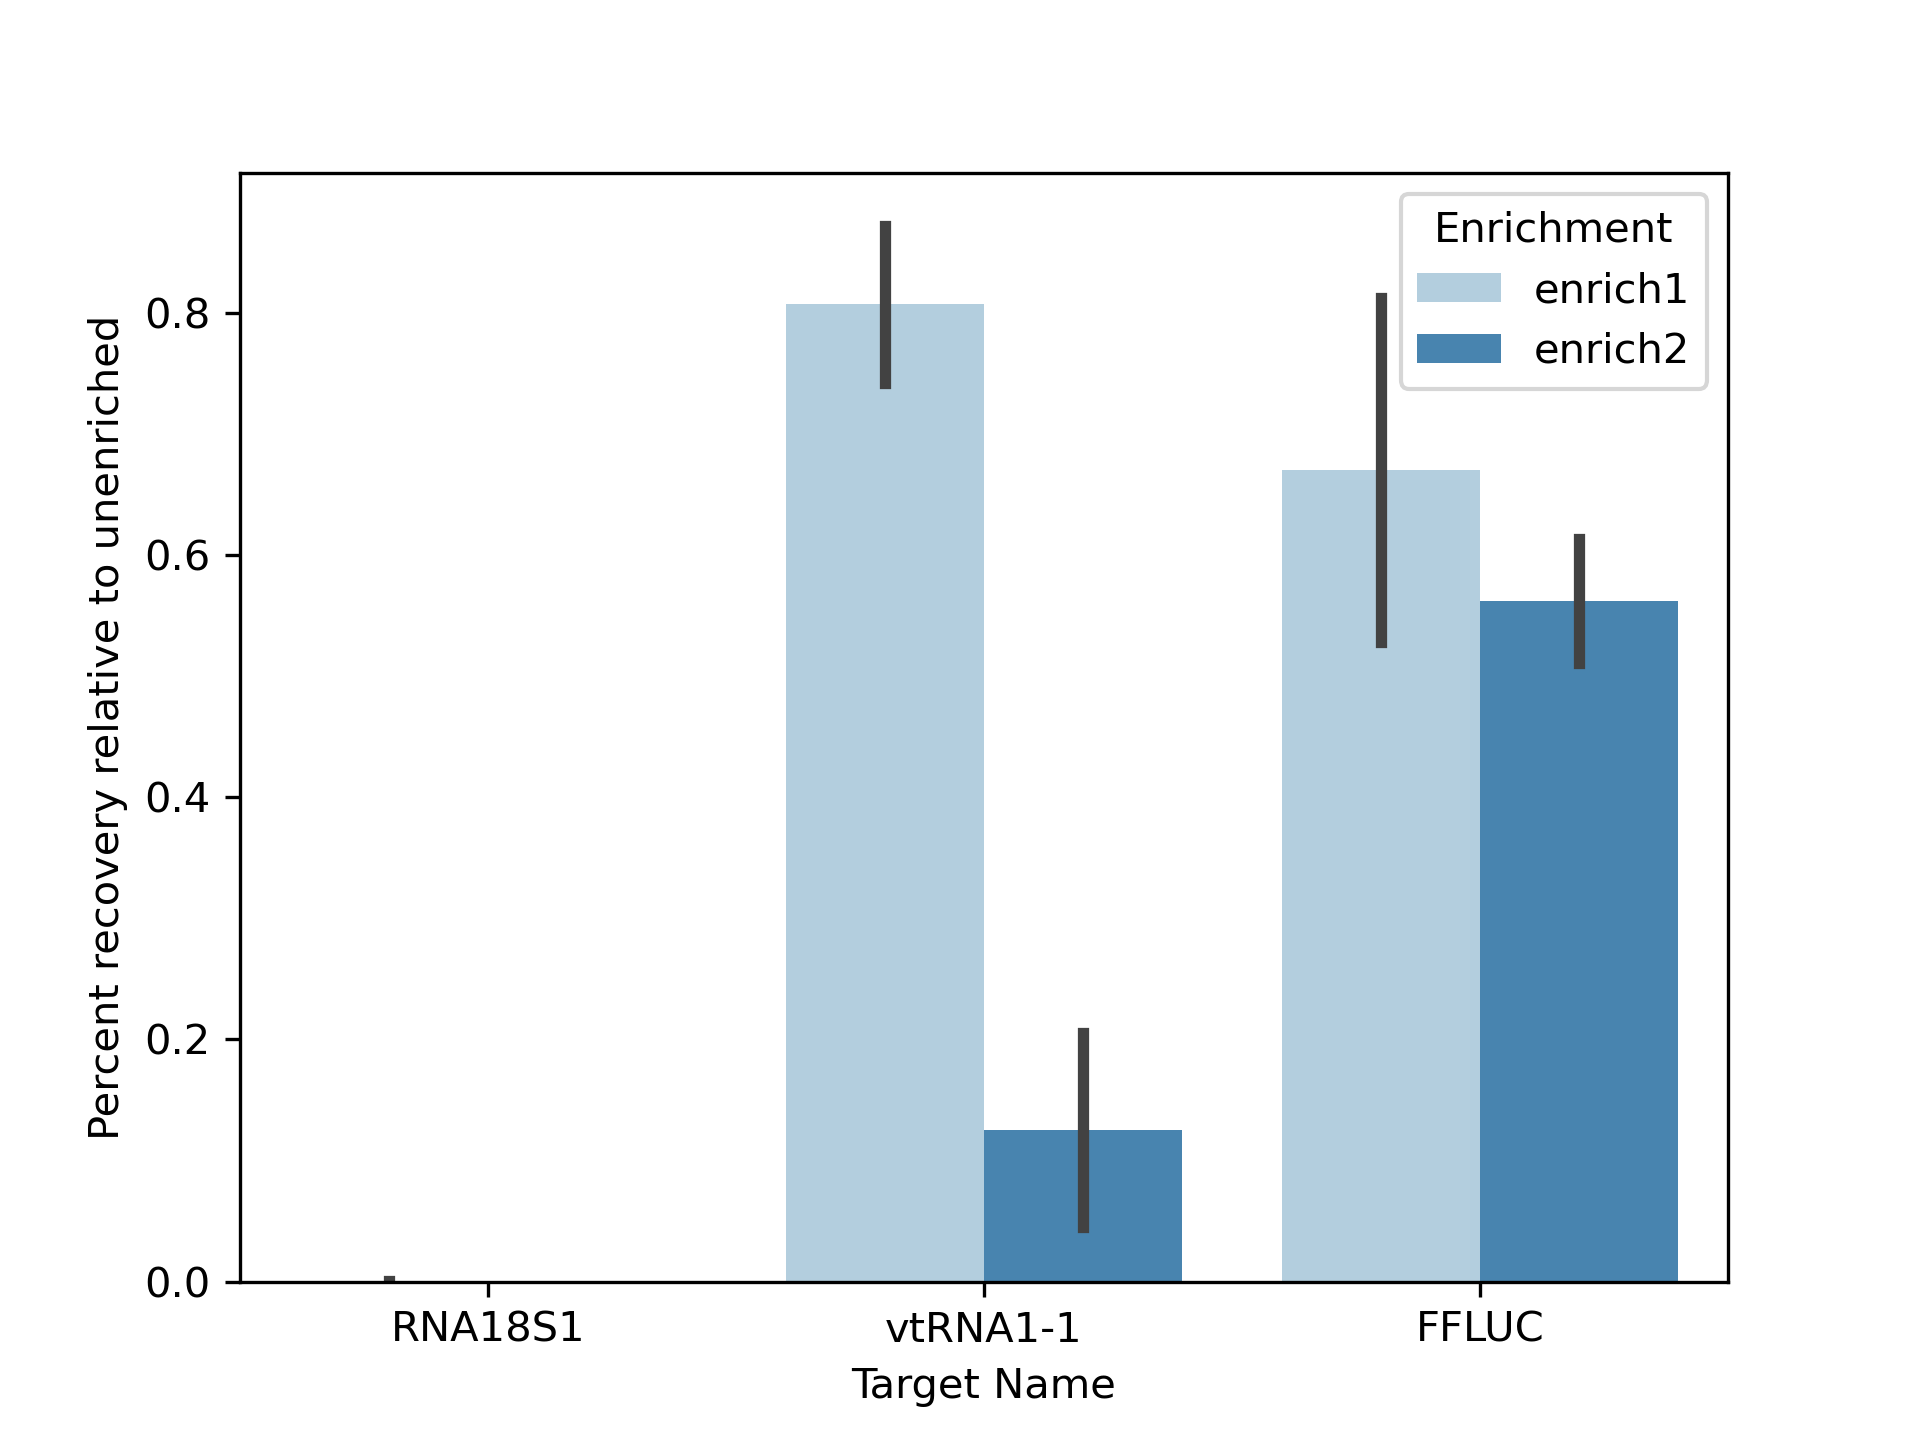
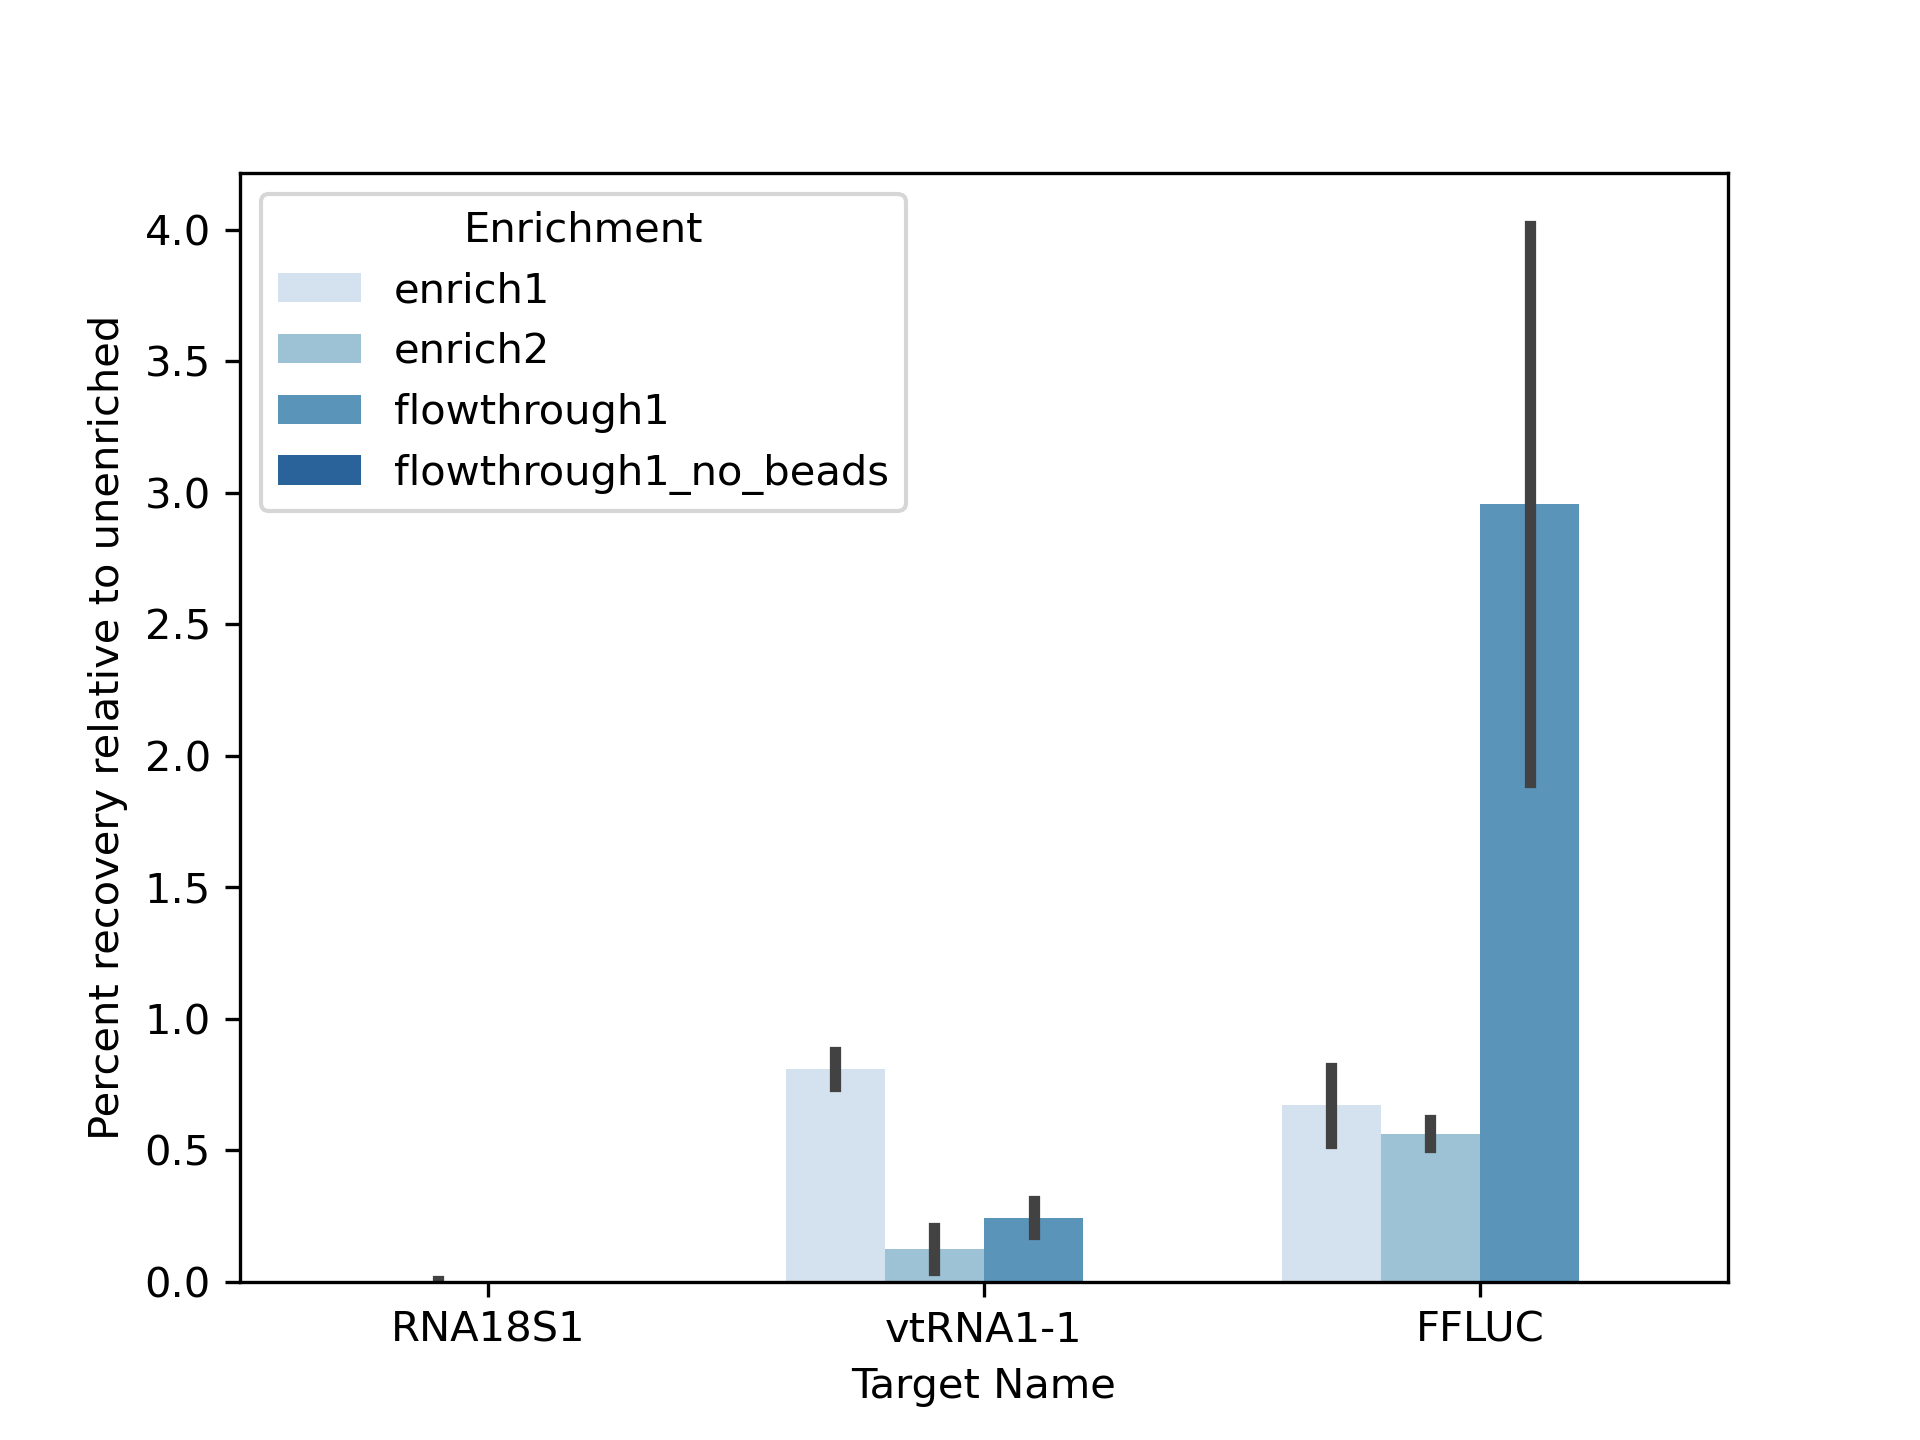
Add flowthrough data to separate dataframe and update output file

diff --git a/TN037/TN037.3.py b/TN037/TN037.3.py
@@ -78,9 +78,24 @@ recover_2["Sample Name"] = enrich_data2["Sample Name"]
 recover_2["Target Name"] = enrich_data2["Target Name"]
 recover_2["CT.difference"] = input_data["CT"].sub(enrich_data2["CT"])
 recover_2["percent_recovery"] = 100 * 2 ** recover_2["CT.difference"]
-recovery = pd.concat([recover_1, recover_2])
 
-recovery.to_excel("TN037.3_output.xlsx")
+# Add flowthrough data to dataframe for separate graph
+flowthrough1 = pd.DataFrame(columns=["Sample Name", "Target Name", "CT.difference"])
+flowthrough1["Sample Name"] = flowthrough1_data["Sample Name"]
+flowthrough1["Target Name"] = flowthrough1_data["Target Name"]
+flowthrough1["CT.difference"] = flowthrough1_data["CT"].sub(input_data["CT"])
+flowthrough1["percent_recovery"] = 100 * 2 ** flowthrough1["CT.difference"]
+flowthrough2 = pd.DataFrame(columns=["Sample Name", "Target Name", "CT.difference"])
+flowthrough2["Sample Name"] = flowthrough2_data["Sample Name"]
+flowthrough2["Target Name"] = flowthrough2_data["Target Name"]
+flowthrough2["CT.difference"] = flowthrough2_data["CT"].sub(input_data["CT"])
+flowthrough2["percent_recovery"] = 100 * 2 ** flowthrough2["CT.difference"]
+
+recovery = pd.concat([recover_1, recover_2])
+flowthrough = pd.concat([flowthrough1, flowthrough2])
+
+output = pd.concat([recovery, flowthrough])
+output.to_excel("TN037.3_output.xlsx")
 
 # Plot using paried barplot to compare both enrichments
 g = sns.barplot(
@@ -94,3 +109,12 @@ g = sns.barplot(
 plt.legend(title="Enrichment")
 plt.ylabel("Percent recovery relative to unenriched")
 plt.savefig("TN037.3.png", format="png", dpi=300)
+
+f = sns.barplot(
+    data=flowthrough,
+    x="Target Name",
+    y="percent_recovery",
+    hue="Sample Name",
+    palette="Blues",
+    errorbar="sd",
+)
